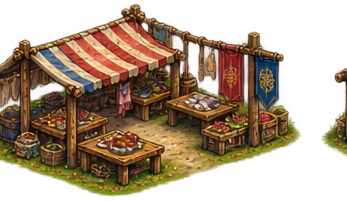
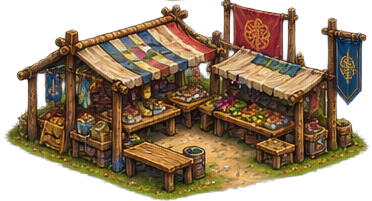
New field, orchard & market art; carriers stride the diagonals again
- Wired in the new building art: 4StageField and 4StageOrchard sliced into the
  four prosperity frames (field/orchard _s1..s4), and the market's empty/stocked
  pair mapped across its four frames (empty at low stock, stocked when thriving).
  Gave the field a drawW so it fills its plot to match the orchard.
- Carriers animate again: the grain and water carriers stride on the diagonals
  (their real carrying-walk art) and hold the stand frame — the bag on the
  shoulder — only on the cardinal facings, where the frames are copies.

Claude-Session: https://claude.ai/code/session_01WKhRt8ZZmze2AhDKaekxbQ

diff --git a/src/data/buildings.js b/src/data/buildings.js
@@ -3,7 +3,7 @@
 export const BUILDINGS = {
   roundhouse: { label: 'Dwelling', sprite: 'roundhouse', art: 'roundhouse', states: 4, scale: 1.12, icon: '🛖', footprint: [2, 2], cost: 20, role: 'dwelling', folk: 4,
     desc: 'A ráth — a round wattle-and-daub home. Draws folk when fed and watered.' },
-  field: { label: 'Field', sprite: 'fields', art: 'field', states: 4, icon: '🌾', footprint: [2, 2], cost: 15, role: 'farm', produce: 'barley', rate: 5, load: 4,
+  field: { label: 'Field', sprite: 'fields', art: 'field', states: 4, drawW: 3.2, icon: '🌾', footprint: [2, 2], cost: 15, role: 'farm', produce: 'barley', rate: 5, load: 4,
     desc: 'Barley for bread and ale. Sends a grain-carrier to a nearby store.' },
   orchard: { label: 'Orchard', sprite: 'fields', art: 'orchard', states: 4, drawW: 3.2, icon: '🍎', footprint: [2, 2], cost: 18, role: 'farm', produce: 'apples', rate: 5, load: 4, unlockLevel: 4,
     desc: 'An úllghort of apple-trees, grown from grafting-shoots won on your raids. A second harvest — its pickers run the fruit to a nearby store, like a field.' },

diff --git a/src/render/chips.js b/src/render/chips.js
@@ -42,10 +42,9 @@ const SOLO_ROLES = new Set(['deaglan', 'deaglan_dig', 'finn', 'finn_run', 'sluag
 // frame and leans on the bob to read as walking.
 const ANIMATED_WALK_ROLES = new Set(['somhairlin', 'deaglan_dig', 'finn_run', 'deaglan', 'finn', 'vigil']);
 const DIAG_DIRS = new Set(['ne', 'nw', 'se', 'sw']); // the facings that carry real walk art
-// Load-carriers hold their stand frame (sack on the shoulder) and move on the step-
-// bob: their walk frames shift the load low and read like a man with a hoe, so the
-// one stable "man with the bag" from the Phase-1 flicker fix is the right look.
-const HOLD_STAND = new Set(['grain_carrier', 'water_carrier']);
+// Roles that always hold their stand frame even on a diagonal (none at present —
+// the carriers DO stride on the diagonals; only their cardinal facings are copies).
+const HOLD_STAND = new Set();
 
 const FALLBACK = {
   dwelling: { color: 0xc98a3a, h: 1.2 }, farm: { color: 0x8ea63a, h: 0.35 },
